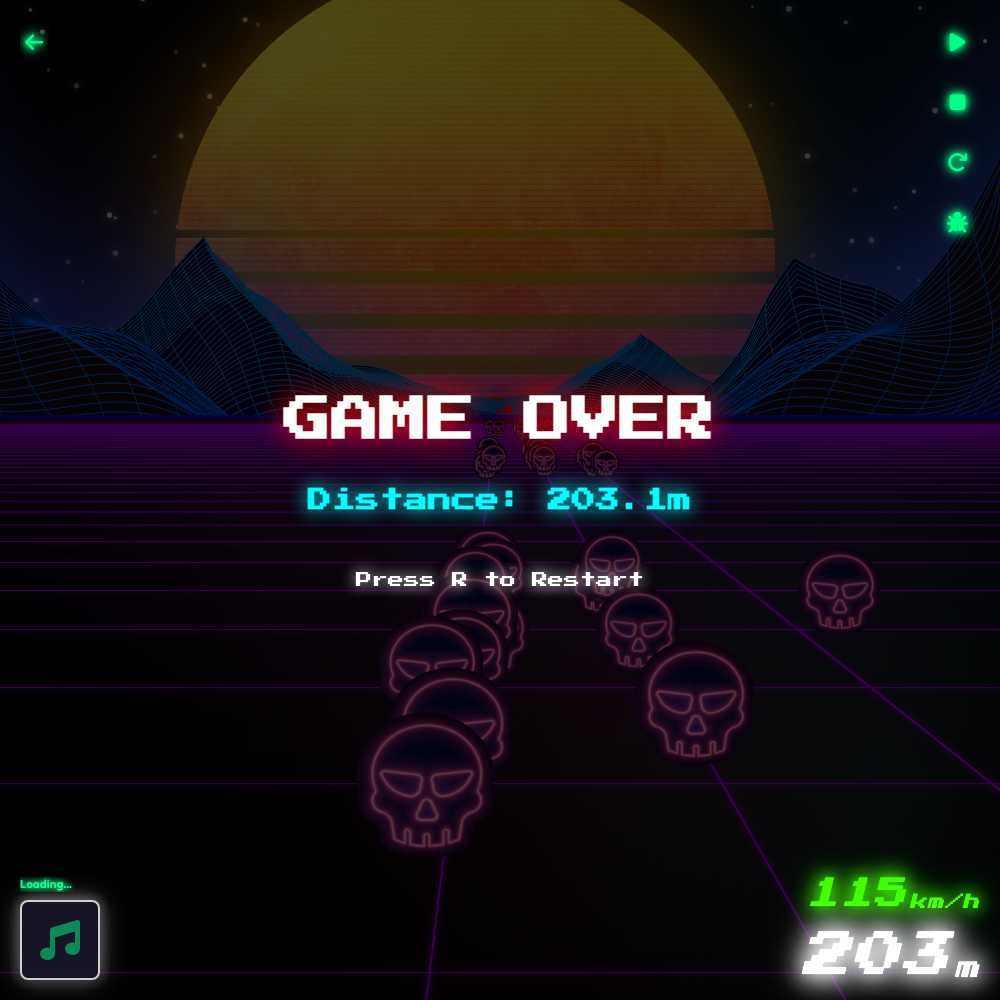
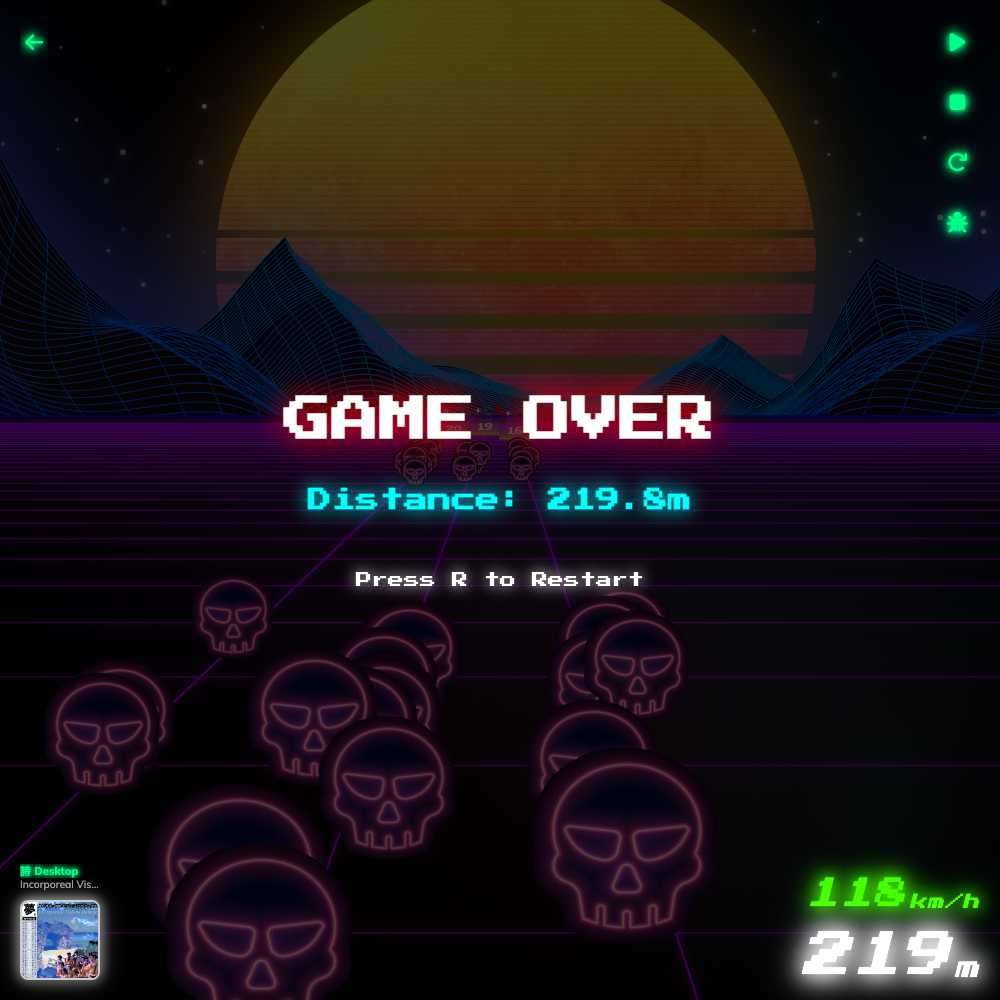
01C: Task 9: Bug fixes

diff --git a/js/01C/game/GameParameters.js b/js/01C/game/GameParameters.js
@@ -12,7 +12,7 @@ export const GameParameters = {
     WORLD_SCROLL_SPEED: 200, // pixels per second (forward movement) - DEPRECATED, use speed ramping
     WORLD_SCROLL_SPEED_MIN: 192, // Starting speed in pixels/second (69 km/h)
     WORLD_SCROLL_SPEED_MAX: 1167, // Maximum speed in pixels/second (420 km/h)
-    SPEED_RAMP_DURATION: 60, // Seconds to reach max speed
+    SPEED_RAMP_DURATION: 600, // Seconds to reach max speed (10 minutes)
     METERS_PER_PIXEL: 0.01, // conversion factor for world space (obstacles, markers) - DO NOT CHANGE
     DISPLAY_DISTANCE_MULTIPLIER: 10, // Multiplier for display purposes (distance counter shows 10x actual)
 
